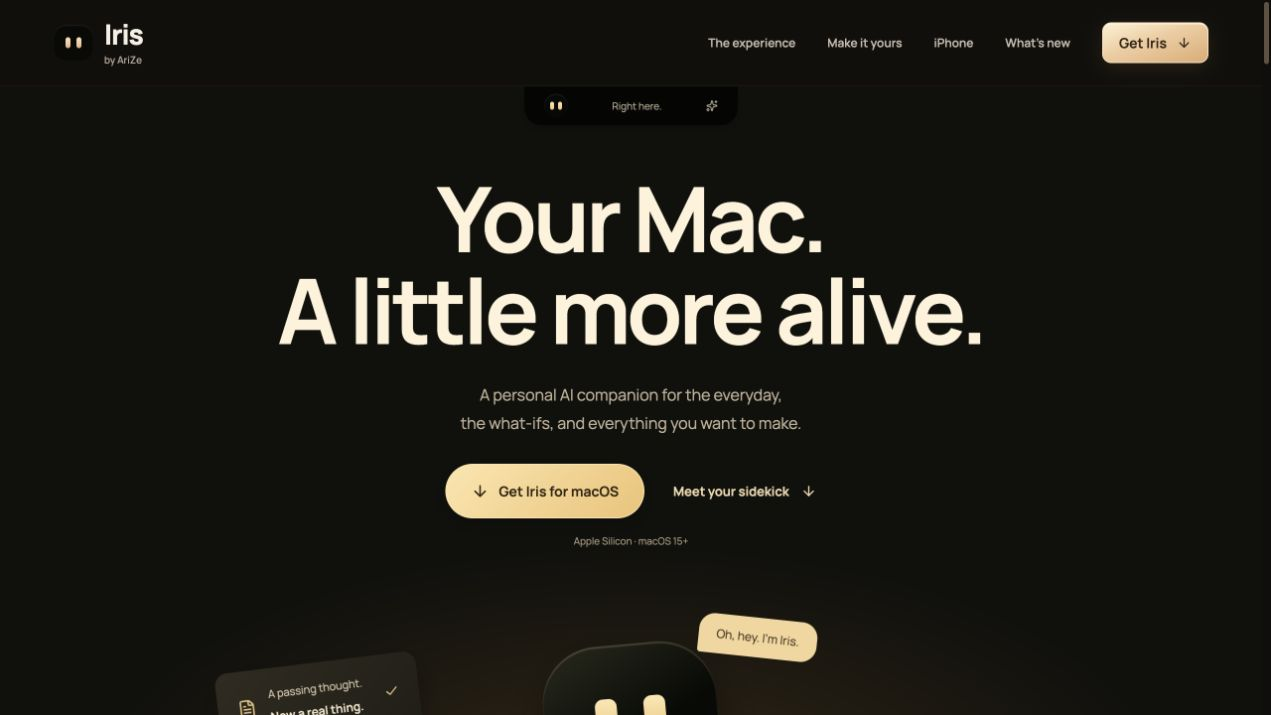
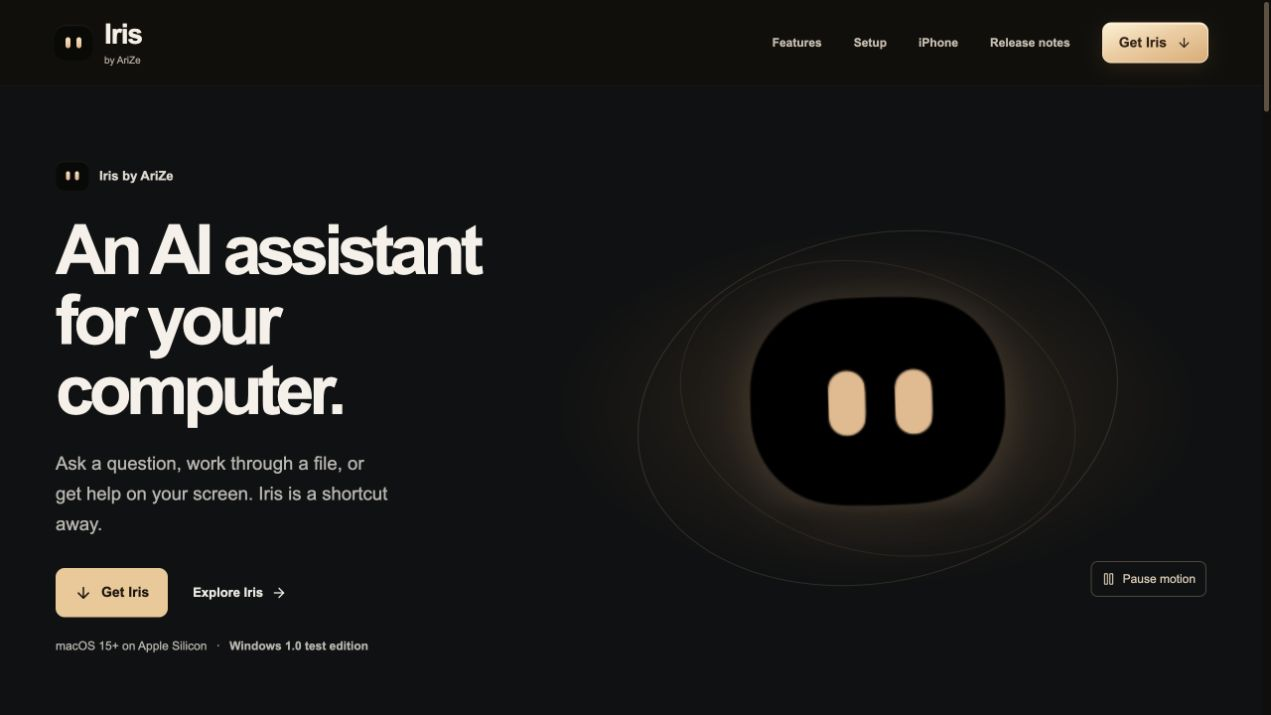
Restore the animated Iris homepage and expand its feature tour

diff --git a/app/home.css b/app/home.css
@@ -11,19 +11,51 @@
 .iris-product .product-primary{display:inline-flex;align-items:center;justify-content:center;gap:9px;padding:13px 19px;border-radius:9px;background:var(--accent);color:#1d150d;font-weight:800;font-size:14px;min-height:46px}
 .iris-product .product-primary:hover{background:#ffdaa9}
 .product-platforms{margin:19px 0 0;color:var(--muted);font-size:12px}.product-platforms span{padding-inline:6px}.iris-product .product-platforms a{font-size:inherit;color:inherit}
-.product-hero-shot{min-width:0;margin:0;background:#1d1e1f;border-radius:14px;padding:12px;border:1px solid #383839;box-shadow:0 18px 58px #0005}
-.product-hero-shot img{display:block;width:100%;height:auto;border-radius:9px;background:#171717}
-.product-hero-shot figcaption{padding:11px 3px 1px;display:flex;justify-content:space-between;gap:10px;color:#c1beb7;font-size:11px}.product-hero-shot figcaption span:last-child{display:flex;align-items:center;gap:6px}
-.product-features{border-top:1px solid var(--rule);padding-block:62px 74px;scroll-margin-top:90px}
 .iris-product h2{font-size:clamp(30px,4vw,51px);line-height:1.13;letter-spacing:-.055em;margin:0 0 24px}
-.product-feature-grid{display:grid;grid-template-columns:repeat(3,1fr);gap:30px;margin:34px 0 44px}.product-feature-grid article{border-top:1px solid var(--rule);padding-top:20px}
-.product-feature-grid svg{color:var(--accent)}.iris-product h3{font-size:19px;letter-spacing:-.025em;margin:11px 0 6px}
-.product-feature-grid p,.product-setup p{color:var(--muted);font-size:15px;line-height:1.65;margin:0 0 14px;max-width:44ch}
-.product-gallery{display:grid;grid-template-columns:1fr 1fr;gap:26px}.product-gallery figure{margin:0;min-width:0}.product-gallery figure>div{height:clamp(200px,28vw,350px);border:1px solid var(--rule);border-radius:13px;display:grid;place-items:center;padding:24px;background:#1b1c1d;overflow:hidden}
-.product-gallery img{width:100%;height:100%;object-fit:contain;border-radius:8px;min-height:0}.product-gallery .product-notch-stage{background:#24211e}.product-notch-stage img{height:auto;border-radius:14px}
-.product-gallery figcaption{display:flex;flex-wrap:wrap;gap:5px 12px;padding-top:12px;font-size:13px}.product-gallery figcaption span{color:var(--muted)}
+.product-setup p{color:var(--muted);font-size:15px;line-height:1.65;margin:0 0 14px;max-width:44ch}
 .product-setup{display:grid;grid-template-columns:1.2fr 1fr;gap:36px;padding-block:64px;border-top:1px solid var(--rule);scroll-margin-top:90px}
 .product-install{padding:24px;border:1px solid var(--rule);border-radius:12px;background:#1a1b1c}.product-install h3{margin-top:0}.product-install .product-primary{margin-right:15px;margin-bottom:8px}
 .product-links{display:flex;flex-wrap:wrap;gap:18px 26px;padding-block:24px 45px;border-top:1px solid var(--rule)}.product-up{transform:rotate(-90deg)}
-@media(max-width:950px){.product-width{width:calc(100% - 56px)}.product-hero{grid-template-columns:1fr;min-height:0;padding-block:52px 60px}.product-hero-shot{max-width:780px}.product-intro h1{font-size:clamp(48px,8vw,72px)}}
-@media(max-width:600px){.product-width{width:calc(100% - 36px)}.product-hero{padding-block:38px 45px;gap:30px}.product-feature-grid,.product-gallery,.product-setup{grid-template-columns:1fr}.product-feature-grid{gap:14px}.product-gallery figure>div{height:auto;min-height:165px;padding:14px}.product-gallery img{height:auto}.product-features,.product-setup{padding-block:40px}.product-hero-shot{padding:7px}.product-hero-shot figcaption{font-size:10px}}
+@media(max-width:950px){.product-width{width:calc(100% - 56px)}.product-hero{grid-template-columns:1fr;min-height:0;padding-block:52px 60px}.product-intro h1{font-size:clamp(48px,8vw,72px)}}
+@media(max-width:600px){.product-width{width:calc(100% - 36px)}.product-hero{padding-block:38px 45px;gap:30px}.product-setup{grid-template-columns:1fr;padding-block:40px}}
+
+.iris-product{overflow:clip}
+.product-hero{min-height:clamp(510px,70svh,690px)}
+.product-character{isolation:isolate;position:relative;display:grid;place-items:center;min-height:380px}
+.product-orbit{position:absolute;inset:2% 0;display:grid;place-items:center;background:radial-gradient(ellipse at center,#c3833930,transparent 69%);pointer-events:none;z-index:-1}
+.product-orbit span{grid-area:1/1;width:min(94%,490px);aspect-ratio:1.4;border:1px solid #edbf8a25;border-radius:50%;transform:rotate(-13deg)}
+.product-orbit span+span{width:min(76%,405px);transform:rotate(15deg);opacity:.62}
+.product-avatar{width:clamp(230px,31vw,420px);height:auto;z-index:1}
+[data-motion=on] .product-avatar{animation:iris-hero-float 6s ease-in-out infinite}
+@keyframes iris-hero-float{0%,100%{transform:translateY(-4px) rotate(-2deg)}50%{transform:translateY(-21px) rotate(2deg)}}
+.product-character-shadow{position:absolute;top:77%;width:31%;height:13px;border-radius:50%;background:#0009;filter:blur(9px)}
+.product-motion{position:absolute;bottom:0;right:0;background:transparent;border:1px solid #504639;color:#d9c7af;border-radius:7px;min-height:36px;padding:6px 10px;display:flex;align-items:center;gap:7px;font:inherit;font-size:12px;cursor:pointer}
+.product-motion:hover{background:#25211c}
+.product-tour{padding-block:54px 64px;border-top:1px solid var(--rule);scroll-margin-top:94px}
+.tour-heading{margin-bottom:26px}
+.tour-heading h2{margin-bottom:9px}
+.tour-heading p,.tour-copy p{color:var(--muted);line-height:1.65;margin:0}
+.tour-track{min-height:calc(min(580px, 76svh) + 330svh)}
+.tour-sticky{position:sticky;top:94px;display:grid;gap:12px}
+.tour-stage{display:grid;grid-template-columns:minmax(220px,.69fr) minmax(0,1.31fr);gap:clamp(18px,3vw,44px);align-items:center;min-width:0;border:1px solid #3c3732;border-radius:16px;background:#171819;padding:clamp(19px,3vw,42px)}
+.tour-copy{min-width:0}
+.tour-label{display:flex;justify-content:space-between;gap:12px;border-bottom:1px solid var(--rule);padding-bottom:12px;margin-bottom:20px;color:var(--accent);font-size:13px;font-weight:750}
+.tour-label span:last-child{color:var(--muted);font-variant-numeric:tabular-nums}
+.iris-product .tour-copy h3{font-size:clamp(26px,3.2vw,47px);line-height:1.12;letter-spacing:-.055em;margin:0 0 13px}
+.tour-copy p{font-size:clamp(13px,1.3vw,16px)}
+.tour-media{height:clamp(225px,48svh,450px);position:relative;border-radius:10px;overflow:hidden;background:#201d1a;border:1px solid #41372e}
+.tour-image{position:absolute;inset:0;display:grid;place-items:center;padding:12px;opacity:0;pointer-events:none}
+[data-motion=on] .tour-image{transform:translateY(12px) scale(.982);transition:opacity .35s ease,transform .45s cubic-bezier(.22,.68,.24,1)}
+.tour-image.is-current{opacity:1;z-index:1}
+[data-motion=on] .tour-image.is-current{transform:none}
+.tour-image img{display:block;max-width:100%;max-height:100%;object-fit:contain;min-height:0;border-radius:8px}
+.tour-image.is-portrait img{height:100%;width:auto}
+.tour-nav{display:grid;grid-template-columns:repeat(9,minmax(0,1fr));gap:5px;border-bottom:1px solid var(--rule)}
+.tour-nav button{min-height:45px;background:transparent;color:#c9c1b6;border:0;border-bottom:2px solid transparent;padding:5px 2px;font:inherit;font-size:clamp(10px,1.15vw,13px);font-weight:650;cursor:pointer}
+.tour-nav button:hover{color:#fff2df;background:#24211d}
+.tour-nav button[aria-pressed=true]{color:var(--accent);border-bottom-color:var(--accent);background:#26211b}
+.tour-static{min-height:0}.tour-static .tour-sticky{position:relative;top:auto}
+@media(max-width:950px){.product-hero{grid-template-columns:1fr 1fr}.product-character{min-height:270px}.product-avatar{width:min(100%,310px)}}
+@media(max-width:720px){.product-hero{grid-template-columns:1fr;gap:0}.product-character{min-height:235px}.product-avatar{width:230px}.tour-stage{grid-template-columns:1fr;gap:14px;padding:15px}.tour-label{margin-bottom:9px;padding-bottom:7px}.iris-product .tour-copy h3{font-size:25px;margin-bottom:6px}.tour-copy p{line-height:1.45}.tour-media{height:clamp(150px,29svh,250px)}.tour-sticky{top:78px}.tour-nav{grid-template-columns:repeat(3,minmax(0,1fr));gap:1px 4px}.tour-nav button{min-height:33px;font-size:11px}}
+@media(prefers-reduced-motion:reduce){.product-avatar{animation:none!important}.tour-image{transition:none!important;transform:none!important}}
+@media(max-width:720px){.tour-copy{min-height:150px}}

diff --git a/app/product-tour.tsx b/app/product-tour.tsx
@@ -1,0 +1,94 @@
+'use client';
+
+import { useEffect, useRef, useState } from 'react';
+
+const scenes = [
+  { label: 'Desktop', title: 'Make room for a longer conversation.', text: 'Ask a question, attach a file, or type @ to bring a source or tool into chat. Pick up previous conversations from the sidebar.', image: '/images/tour/desktop.jpg', alt: 'Iris desktop chat and composer' },
+  { label: 'Notch', title: 'Ask without leaving your work.', text: 'Summon Iris at the top of your screen. Type or speak, attach an image, and open the full conversation when you need more space.', image: '/images/tour/notch.jpg', alt: 'Expanded Iris notch with text, microphone and attachment controls' },
+  { label: 'Floating', title: 'Get help right where you’re looking.', text: 'Keep Iris beside the app you’re using. With screen access and a supported model, Iris can point to a control, label a diagram, or sketch an explanation.', image: '/images/tour/floating.jpg', alt: 'Floating Iris with the guide-in-an-app control', portrait: true },
+  { label: 'Drafting', title: 'Write in the field you’re already in.', text: 'Double-tap your drafting shortcut to rewrite selected text or start a reply from the context you share. Edit the result before sending.', image: '/images/tour/drafting.jpg', alt: 'The Iris onboarding lesson for Double Tap drafting in TextEdit' },
+  { label: 'Knowledge', title: 'Give answers more context.', text: 'Bring in files, notes, and selected connections. Use @ to reference a source in chat, or scan enabled sources to save useful details to memory.', image: '/images/tour/connections.jpg', alt: 'Iris Knowledge showing Scan now and the Connections section' },
+  { label: 'Agents', title: 'Hand off the longer jobs.', text: 'Start a specialist agent for a larger task, then follow its progress while you keep using Iris. Give each agent a specific brief.', image: '/images/tour/agents.jpg', alt: 'Iris Agents showing several agents and an example task' },
+  { label: 'Create', title: 'Turn a prompt into something you can open.', text: 'Choose a creation tool with @ in chat. Ask for a document, website, or image and open the resulting file from the conversation.', image: '/images/tour/desktop.jpg', alt: 'Iris chat with Website and Document creation tools' },
+  { label: 'Library', title: 'Find what you made again.', text: 'Reopen generated files, projects, and study material from the Library. Bring a saved item back into chat to keep working on it.', image: '/images/tour/library.jpg', alt: 'Iris Library with Files, Study, Projects and Drafts categories' },
+  { label: 'Voice & setup', title: 'Choose how Iris listens and answers.', text: 'Set a voice and keyboard shortcuts, then choose OpenAI, Gemini, or a local model through LM Studio. Manage screen and folder access in Settings.', image: '/images/tour/voice.jpg', alt: 'Iris onboarding with Gemini, VoiceBox, and macOS voice options' },
+];
+
+export function ProductTour({ animated }: { animated: boolean }) {
+  const section = useRef<HTMLDivElement>(null);
+  const stage = useRef<HTMLDivElement>(null);
+  const [active, setActive] = useState(0);
+  const [compact, setCompact] = useState(false);
+  const staticTour = compact || !animated;
+
+  useEffect(() => {
+    const query = matchMedia('(max-height: 600px)');
+    const update = () => setCompact(query.matches);
+    update();
+    query.addEventListener('change', update);
+    return () => query.removeEventListener('change', update);
+  }, []);
+
+  useEffect(() => {
+    if (staticTour) return;
+    let frame = 0;
+    const update = () => {
+      frame = 0;
+      const container = section.current;
+      const panel = stage.current;
+      if (!container || !panel) return;
+      const top = parseFloat(getComputedStyle(panel).top) || 0;
+      const distance = container.offsetHeight - panel.offsetHeight;
+      if (distance <= 0) return;
+      const progress = Math.min(1, Math.max(0, (top - container.getBoundingClientRect().top) / distance));
+      setActive(Math.min(scenes.length - 1, Math.floor(progress * scenes.length + 0.00001)));
+    };
+    const schedule = () => { if (!frame) frame = requestAnimationFrame(update); };
+    schedule();
+    addEventListener('scroll', schedule, { passive: true });
+    addEventListener('resize', schedule);
+    return () => {
+      cancelAnimationFrame(frame);
+      removeEventListener('scroll', schedule);
+      removeEventListener('resize', schedule);
+    };
+  }, [staticTour]);
+
+  function choose(index: number) {
+    if (staticTour) { setActive(index); return; }
+    if (!section.current || !stage.current) return;
+    const top = parseFloat(getComputedStyle(stage.current).top) || 0;
+    const distance = section.current.offsetHeight - stage.current.offsetHeight;
+    const start = scrollY + section.current.getBoundingClientRect().top - top;
+    scrollTo({ top: start + distance * (index + 0.5) / scenes.length, behavior: 'smooth' });
+  }
+
+  const scene = scenes[active];
+  return <section id="features" className="product-tour product-width" aria-labelledby="feature-title">
+    <div className="tour-heading">
+      <h2 id="feature-title">See Iris in action.</h2>
+      <p>Scroll through the Mac app, or choose a feature to jump to it.</p>
+    </div>
+    <div className={'tour-track' + (staticTour ? ' tour-static' : '')} ref={section}>
+      <div className="tour-sticky" ref={stage}>
+        <div className="tour-stage" id="iris-tour-scene">
+          <div className="tour-copy">
+            <div className="tour-label"><span>{scene.label}</span><span aria-hidden="true">{active + 1} / {scenes.length}</span></div>
+            <h3>{scene.title}</h3>
+            <p>{scene.text}</p>
+          </div>
+          <div className="tour-media">
+            {scenes.map((item, index) =>
+              <div key={item.label} className={'tour-image' + (index === active ? ' is-current' : '') + (item.portrait ? ' is-portrait' : '')} aria-hidden={index !== active}>
+                <img src={item.image} alt={item.alt} loading={index ? 'lazy' : 'eager'} decoding="async"/>
+              </div>
+            )}
+          </div>
+        </div>
+        <div className="tour-nav" role="group" aria-label="Choose an Iris feature">
+          {scenes.map((item, index) => <button key={item.label} type="button" aria-controls="iris-tour-scene" aria-pressed={index === active} onClick={() => choose(index)}>{item.label}</button>)}
+        </div>
+      </div>
+    </div>
+  </section>;
+}

diff --git a/app/page.tsx b/app/page.tsx
@@ -1,34 +1,28 @@
 'use client';
 
-import { ArrowDown, ArrowRight, Command, FileText, Mic, PanelTop, Play } from 'lucide-react';
+import { useEffect, useState } from 'react';
+import { ArrowDown, ArrowRight, Pause, Play } from 'lucide-react';
 import { Face, Footer, Nav } from './components';
 import { usePlatform } from './use-platform';
+import { ProductTour } from './product-tour';
 import './home.css';
-
-const features = [
-  {
-    title: 'Ask without switching apps',
-    text: 'Open Iris from the notch to type or speak. Move into the desktop workspace when a quick question becomes a longer conversation.',
-    icon: PanelTop,
-  },
-  {
-    title: 'Work from your own material',
-    text: 'Attach an image or document, or type @ to choose a connected source. Use Knowledge to find the notes and files you’ve brought into Iris.',
-    icon: FileText,
-  },
-  {
-    title: 'Get help on your screen',
-    text: 'Use floating Iris to talk through what you’re looking at. With screen access and a supported model, it can point out where to click or explain a diagram.',
-    icon: Mic,
-  },
-];
 
 export default function Home() {
   const platform = usePlatform();
+  const [paused, setPaused] = useState(false);
+  const [reduced, setReduced] = useState(false);
+  useEffect(() => {
+    const query = matchMedia('(prefers-reduced-motion: reduce)');
+    const sync = () => setReduced(query.matches);
+    sync();
+    query.addEventListener('change', sync);
+    return () => query.removeEventListener('change', sync);
+  }, []);
+  const animated = !paused && !reduced;
   const download = platform ? `/download?platform=${platform}` : '/download';
   const device = platform === 'macos' ? 'Mac' : platform === 'windows' ? 'PC' : 'computer';
 
-  return <><Nav/><main className="iris-product">
+  return <><Nav/><main className="iris-product" data-motion={animated ? "on" : "off"}>
     <section className="product-hero product-width" aria-labelledby="product-title">
       <div className="product-intro">
         <div className="product-signature"><Face small/> Iris by AriZe</div>
@@ -40,22 +34,17 @@ export default function Home() {
         </div>
         <p className="product-platforms">macOS 15+ on Apple Silicon <span>·</span> <a href="/windows">Windows 1.0 test edition</a></p>
       </div>
-      <figure className="product-hero-shot">
-        <img src="/images/current/desktop.jpg" width="1700" height="1182" alt="Iris for Mac desktop chat, with tools for websites, documents, and knowledge sources" fetchPriority="high"/>
-        <figcaption><span>Iris for macOS</span><span><Command size={13}/> Open with a shortcut</span></figcaption>
-      </figure>
-    </section>
-
-    <section className="product-features product-width" id="features" aria-labelledby="feature-title">
-      <h2 id="feature-title">What you can do with Iris</h2>
-      <div className="product-feature-grid">{features.map(({title,text,icon: Icon}) =>
-        <article key={title}><Icon size={24} aria-hidden="true"/><h3>{title}</h3><p>{text}</p></article>
-      )}</div>
-      <div className="product-gallery">
-        <figure><div className="product-notch-stage"><img src="/images/current/notch.jpg" width="1160" height="596" loading="lazy" alt="Iris notch chat with its attachment, source and microphone controls"/></div><figcaption><strong>Notch chat</strong><span>Quick questions by voice or keyboard</span></figcaption></figure>
-        <figure><div className="product-knowledge-stage"><img src="/images/current/knowledge.jpg" width="1600" height="1057" loading="lazy" alt="Iris Knowledge library with sample photography notes and a Scan now button"/></div><figcaption><strong>Knowledge</strong><span>Browse your sources and save useful details to memory</span></figcaption></figure>
+      <div className="product-character">
+        <div className="product-orbit" aria-hidden="true"><span/><span/></div>
+        <img className="product-avatar" src="/images/tour/avatar.png" width="272" height="216" alt="Iris’s floating avatar" fetchPriority="high"/>
+        <div className="product-character-shadow" aria-hidden="true"/>
+        {!reduced && <button className="product-motion" type="button" onClick={() => setPaused(value => !value)}>
+          {paused ? <Play size={14}/> : <Pause size={14}/>} {paused ? 'Resume motion' : 'Pause motion'}
+        </button>}
       </div>
     </section>
+
+    <ProductTour animated={animated}/>
 
     <section className="product-setup product-width" id="how-it-works">
       <div><h2>Set up Iris your way.</h2><p>Choose OpenAI, Gemini, or a local model through LM Studio. Pick a voice, then grant Iris access to the sources and folders you want it to use.</p><a href="/privacy">Read about privacy <ArrowRight size={16}/></a></div>
